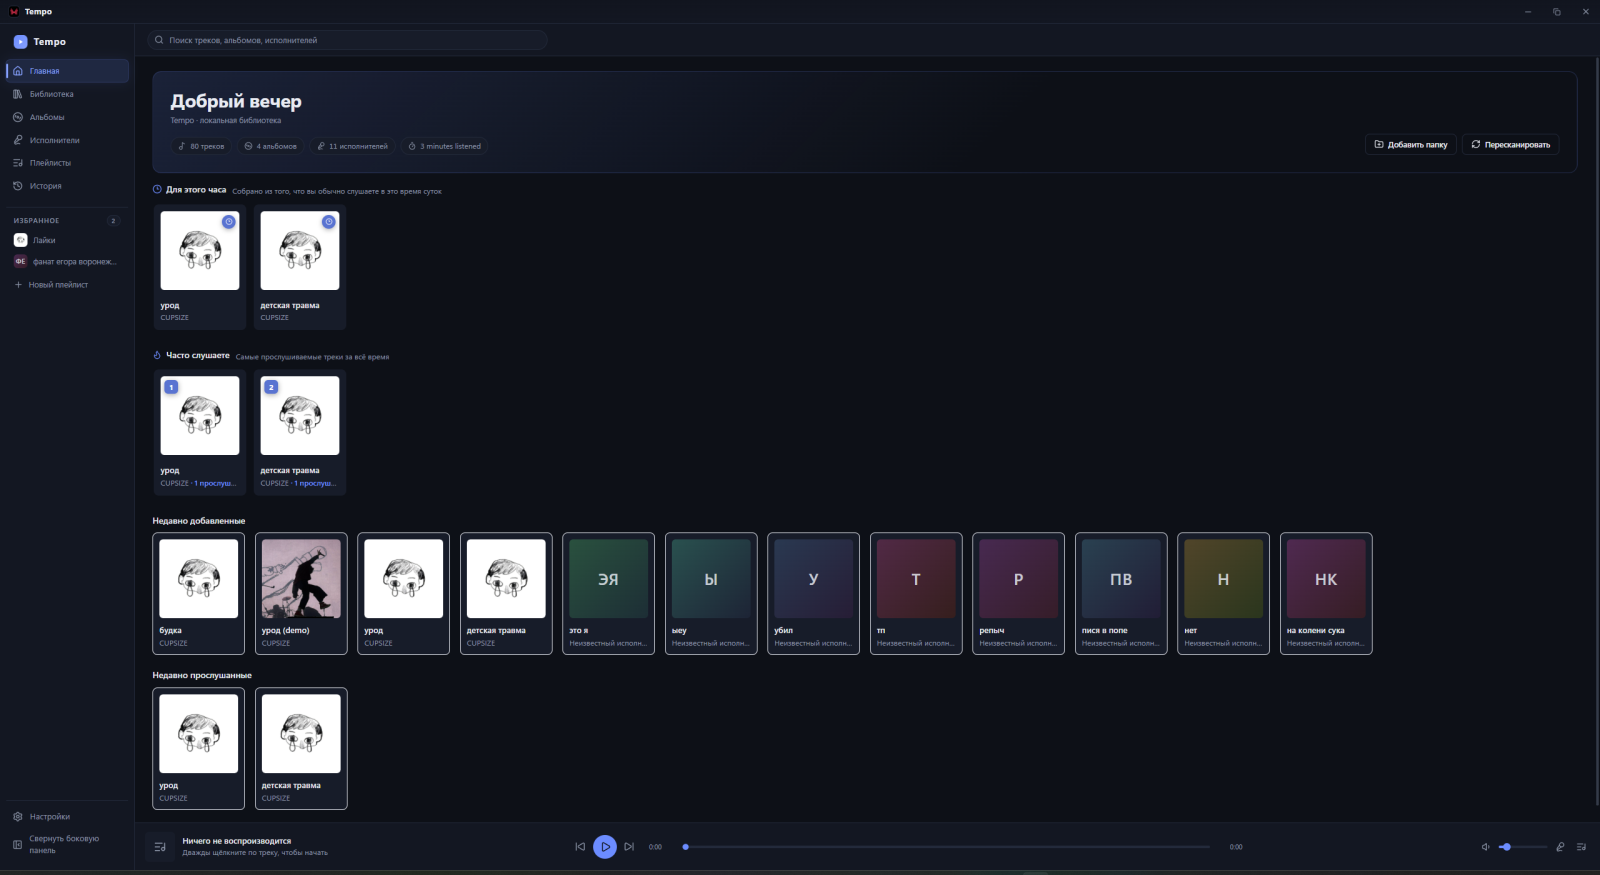
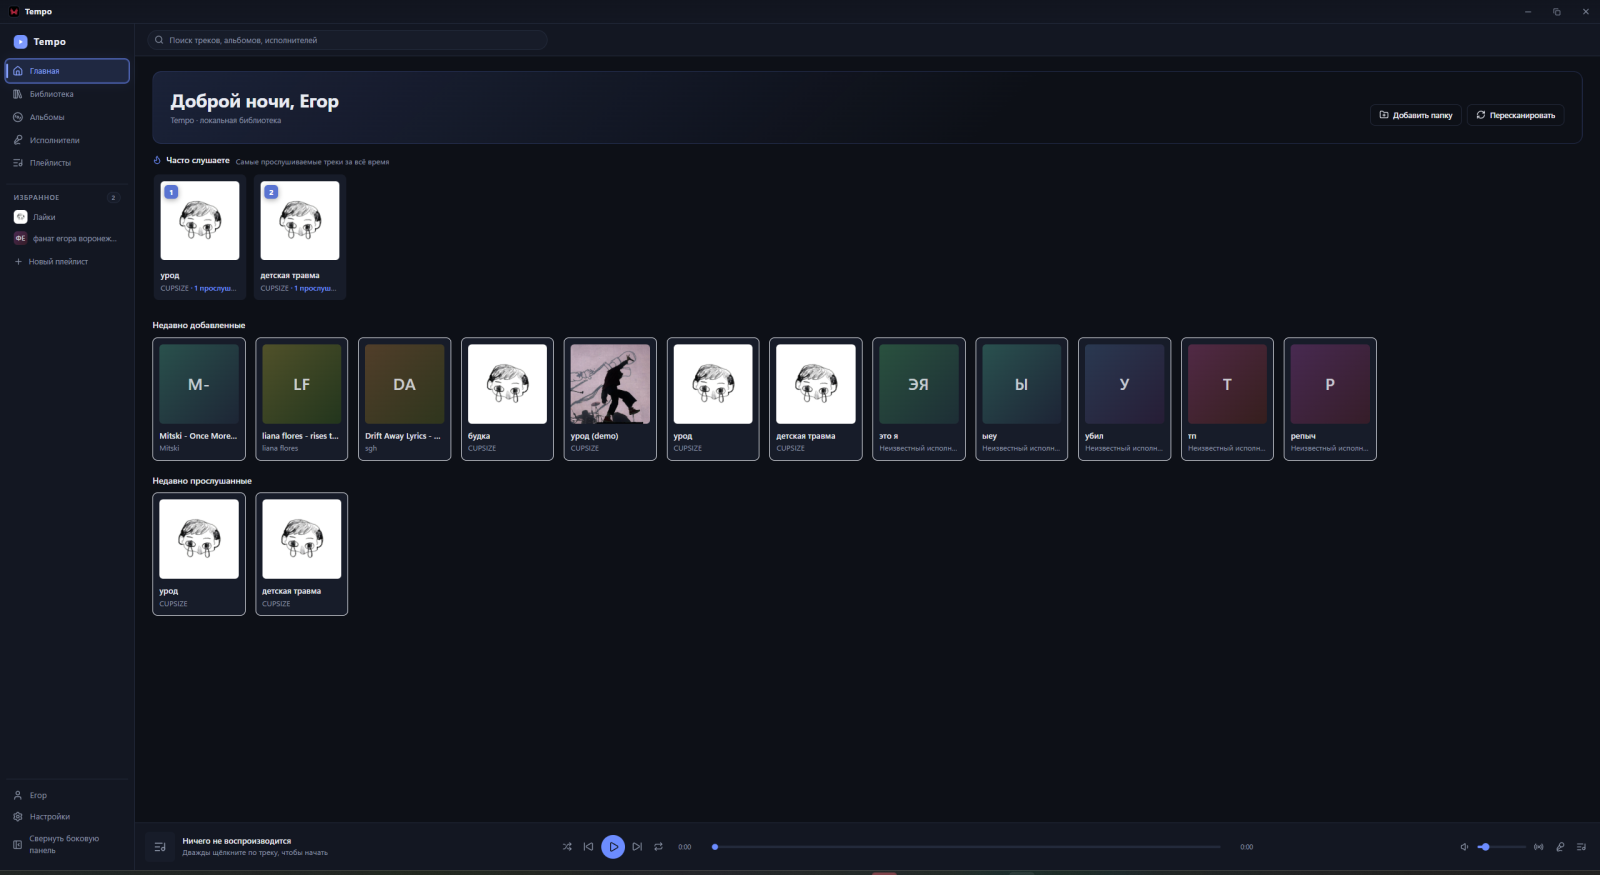
fix: conditional useMemo crash (react #310) on home page; update screenshot; keep error surface helper in index.html

diff --git a/src/pages/HomePage.tsx b/src/pages/HomePage.tsx
@@ -46,32 +46,10 @@ export default function HomePage() {
   const hourPicks = useAsync(() => api.getHourPicks(30), [version])
   const top = useAsync(() => api.getTopTracks(12), [version])
   const played = useAsync(async () => dedupeRecent((await api.getAnalytics('30d')).recent, 10), [version])
-  const greeting = useMemo(() => greetingForHour(new Date().getHours()), [])
-  const nickname = settings.profile.nickname
-
-  if (recent.loading) {
-    return (
-      <div className="page">
-        <div className="muted">{t('Loading…')}</div>
-      </div>
-    )
-  }
-
-  const error = recent.error ?? foldersApi.error
-  if (error) {
-    return (
-      <div className="page">
-        <div className="error-line">{error}</div>
-      </div>
-    )
-  }
-
-  const totalTracks = total.data ?? 0
   const unknownArtist = t('Unknown artist')
   const hourPicksList = hourPicks.data ?? []
-  const topTracks: TopTrackItem[] = top.data ?? []
-  const recentPlays = played.data ?? []
-
+  const greeting = useMemo(() => greetingForHour(new Date().getHours()), [])
+  const nickname = settings.profile.nickname
   const hourMixes = useMemo(() => {
     if (hourPicksList.length === 0) return []
     const mixes: { key: string; title: string; tracks: Track[] }[] = []
@@ -99,6 +77,28 @@ export default function HomePage() {
     }
     return mixes
   }, [hourPicksList, unknownArtist, t])
+
+
+  if (recent.loading) {
+    return (
+      <div className="page">
+        <div className="muted">{t('Loading…')}</div>
+      </div>
+    )
+  }
+
+  const error = recent.error ?? foldersApi.error
+  if (error) {
+    return (
+      <div className="page">
+        <div className="error-line">{error}</div>
+      </div>
+    )
+  }
+
+  const totalTracks = total.data ?? 0
+  const topTracks: TopTrackItem[] = top.data ?? []
+  const recentPlays = played.data ?? []
 
   const playSection = (tracks: Track[], index: number) => {
     player.playTracks(tracks.map((tr) => trackToUnified(tr)), index)

diff --git a/index.html b/index.html
@@ -4,6 +4,16 @@
     <meta charset="UTF-8" />
     <meta name="viewport" content="width=device-width, initial-scale=1.0" />
     <title>Tempo</title>
+    <script>
+      window.addEventListener('error', (e) => {
+        const stack = e.error && e.error.stack ? e.error.stack : ''
+        const lines = stack.split('\n').filter((l) => l.includes('at ')).slice(0, 8).join(' | ')
+        document.title = ('ERR: ' + (e.message || '') + ' :: ' + lines).slice(0, 900)
+      })
+      window.addEventListener('unhandledrejection', (e) => {
+        document.title = 'REJ: ' + ((e.reason && e.reason.message) || String(e.reason))
+      })
+    </script>
   </head>
   <body>
     <div id="root"></div>
